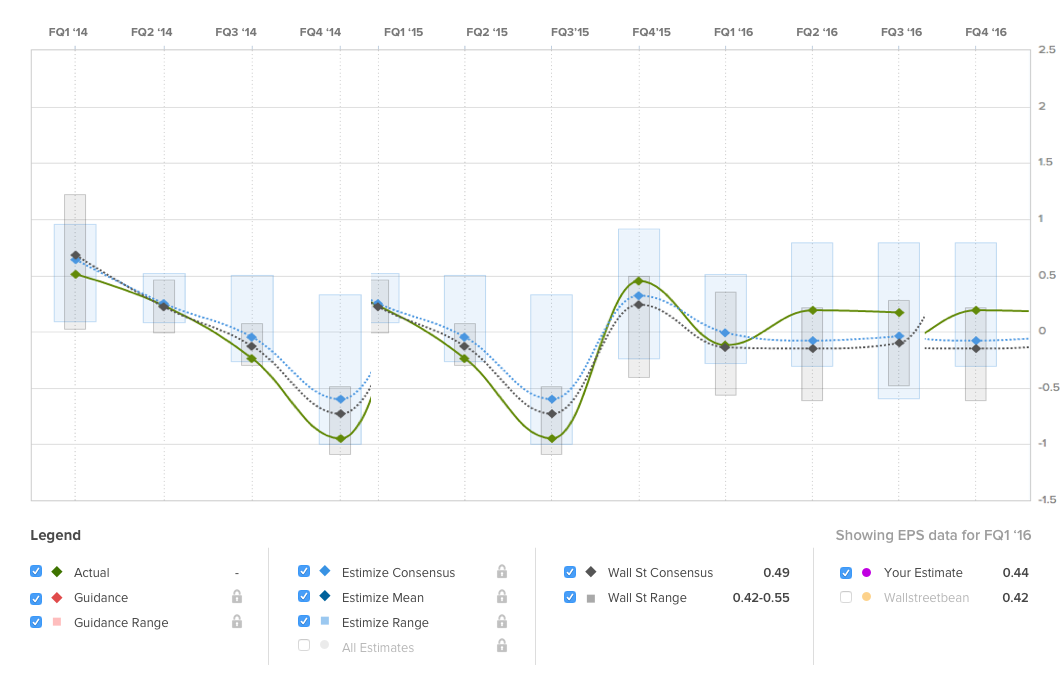
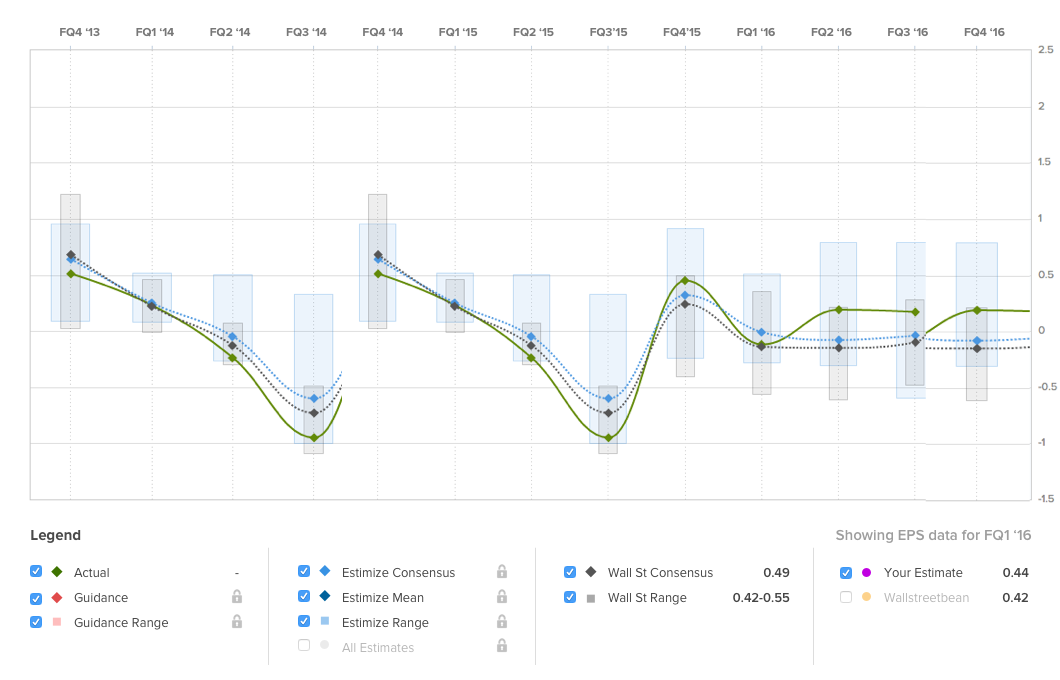
add 1 more quarter to chart to align qtrs vertically

diff --git a/style.css b/style.css
@@ -194,7 +194,7 @@ MULTIPLE ESTIMATE ENTRY
   border-top: none;
 }
 .multiple-table-tr-qtrs td {
-  padding: 10px 10px 6px 10px;
+  padding: 10px 5px 6px;
 }
 .multiple-table-tr-actuals td,
 .multiple-table-tr-consensus td {
@@ -285,7 +285,7 @@ td.multiple-table-td-label {
 
 .multiple-table-tr-actuals .multiple-table-td-open {
   padding: 8px 10px 6px;
-  width: 80px;
+  width: 72px;
 }
 .multiple-table-tr-consensus .multiple-table-td-open {
   padding: 10px 10px 6px;
@@ -306,7 +306,7 @@ saved:active*/
 .multiple-table-qtr-close {
   color: #bbb;
   opacity: 0.8;
-  margin-left: 8px;
+  margin-left: 5px;
   display: none;
 }
 .multiple-table-qtr-close:hover {
@@ -317,7 +317,7 @@ saved:active*/
 }
 
 .multiple-table-estimate-input-number {
-  padding: 3px 5px 0;
+  padding: 3px 0px 0 3px;
   margin-bottom: 2px;
   width: 100%;
   height: 29px;
@@ -336,7 +336,7 @@ saved:active*/
 }
   /*STATE: EDITING */
   .multiple-table-tr-actuals .multiple-table-td-editing {
-    width: 100px;
+    width: 94px;
   }
   .multiple-table-td-editing .multiple-table-estimate-input-number{
     border: 1px solid #DA00E1;
@@ -375,12 +375,13 @@ saved:active*/
   }
   /*STATE: EDITED */
   .multiple-table-estimate-input-number-edited {
-    background: #fff url('images/check.png') no-repeat 38px center;
+    background: #fff url('images/check.png') no-repeat 33px center;
     border: 1px solid #bbbbbb;
+    width: 100%;
 
   }
   .multiple-table-td-editing .multiple-table-estimate-input-number-edited.multiple-table-estimate-input-number:not(:focus) {
-    background: #fff url('images/check.png') no-repeat 58px center;
+    background: #fff url('images/check.png') no-repeat 55px center;
     border: 1px solid #bbbbbb;
   }
 
@@ -410,20 +411,20 @@ saved:active*/
   }
   .multiple-tooltips-eps-one,
   .multiple-tooltips-rev-one {
-    left: -230px;
+    left: -200px;
     display: block;
   }
   .multiple-tooltips-eps-two,
   .multiple-tooltips-rev-two {
-    left: -135px;
+    left: -120px;
   }
   .multiple-tooltips-eps-three,
   .multiple-tooltips-rev-three {
-    left: -55px;
+    left: -45px;
   }
   .multiple-tooltips-eps-four,
   .multiple-tooltips-rev-four {
-    left: 20px;
+    left: 25px;
   }
   .multiple-tooltips-eps-button,
   .multiple-tooltips-rev-button {
@@ -497,7 +498,7 @@ saved:active*/
   border-top: 0;
   position: absolute; 
   right: 29px;
-  width: 341px;
+  width: 311px;
   height: 501px;
 }
 

diff --git a/_multiple.php b/_multiple.php
@@ -125,7 +125,7 @@
     <tr class="multiple-table-tr-button">
       <td colspan="9"></td>
       <td class="multiple-table-td-button" colspan="4">
-        <button class="multiple-table-button multiple-table-button-eps" disabled>I'm done with EPS. Let me do revenue &raquo;</button>
+        <button class="multiple-table-button multiple-table-button-eps" disabled>Done with EPS. Let me do revenue &raquo;</button>
       </td>
     </tr>
   </table>
